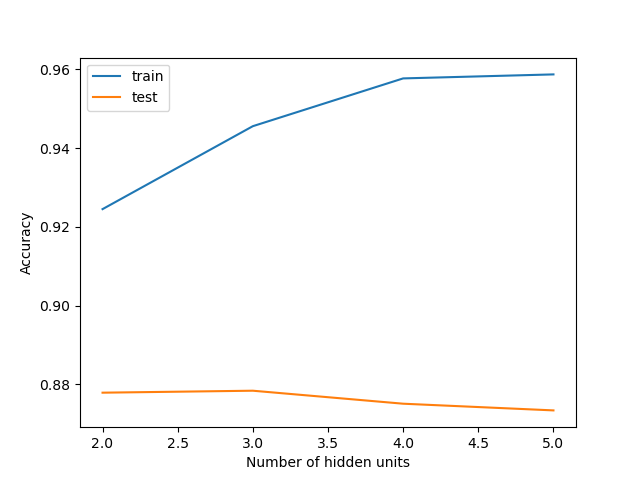
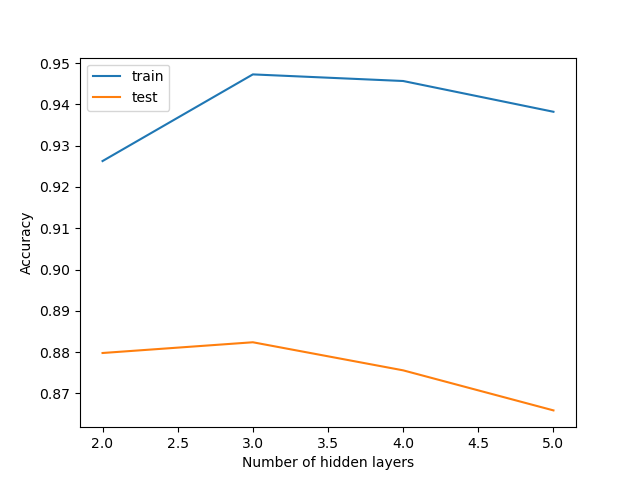
Q2

diff --git a/Assignment 3/MyNN.py b/Assignment 3/MyNN.py
@@ -23,9 +23,9 @@ def relu_derivative(z):
 
 class neuralnetwork:
 
-    def __init__(self, layers, activation, activation_derivative,
-                 learning_rate=0.1, stop_epsilon=1e-5, batch_size=100, max_epochs=1000, adaptive=False, objective_function = 'MSE', verbose=False):
-        self.layers = layers
+    def __init__(self, layers, activation, activation_derivative,learning_rate=0.1, stop_epsilon=1e-8, batch_size=100, max_epochs=1000, adaptive=False, objective_function = 'MSE'):
+        
+        self.hidden_layers = layers
         self.training_epochs = 0
         self.activation = activation
         self.activation_derivative = activation_derivative
@@ -36,20 +36,19 @@ class neuralnetwork:
         self.max_epochs = max_epochs
         self.adaptive = adaptive
         self.objective_function = objective_function
-        self.verbose = verbose
+        self.layers = []
         self.weights = []
         self.biases = []
         self.output = []
-        # self.init_weights_biases()
-    def init_weights_biases(self):
+        
+    def xavierinit_weights_biases(self):
         for i in range(1, len(self.layers)):
             self.weights.append(np.random.randn(
-                self.layers[i], self.layers[i - 1]) * (2 / self.layers[i - 1]) ** 0.5)
-            self.biases.append(np.random.randn(
-                self.layers[i], 1) * (2 / self.layers[i - 1]) ** 0.5)
+                self.layers[i], self.layers[i - 1]) / np.sqrt(self.layers[i - 1]))
+            self.biases.append(np.zeros((self.layers[i], 1)))
                 
     def forward_propagation(self, X):
-        self.output = [X]
+        self.output = [X] # input layer
         for i in range(len(self.weights)-1):
             net = np.dot(self.weights[i], self.output[i]) + self.biases[i]
             self.output.append(self.activation(net))
@@ -60,35 +59,35 @@ class neuralnetwork:
     def back_propagation(self, X, y):
         m = X.shape[1]
         self.forward_propagation(X)
-        delta = [None] * len(self.weights)
+        delta = []
         if self.objective_function == 'MSE':
-            delta[-1] = (self.output[-1] - y) * sigmoid_derivative(self.output[-1])
+            delta.insert(0,(self.output[-1] - y) * sigmoid_derivative(self.output[-1]))
         elif self.objective_function == 'BCE':
-            delta[-1] = (self.output[-1] - y)
+            delta.insert(0,self.output[-1] - y)
         
         for i in range(len(self.weights)-2, -1, -1):
-            delta[i] = np.dot(self.weights[i+1].T, delta[i+1]) * self.activation_derivative(self.output[i+1])
+            delta.insert(0,np.dot(self.weights[i+1].T, delta[0]) * self.activation_derivative(self.output[i+1]))
         for i in range(len(self.weights)):
-            self.weights[i] -= self.learning_rate * \
-                np.dot(delta[i], self.output[i].T) / m
-            self.biases[i] -= self.learning_rate * np.sum(
-                delta[i], axis=1, keepdims=True) / m
+            self.weights[i] -= self.learning_rate * np.dot(delta[i], self.output[i].T) / m
+            self.biases[i] -= self.learning_rate * np.sum(delta[i], axis=1, keepdims=True) / m
 
     def predict(self, X, one_hot=False):
+        y_pred = self.forward_propagation(X.T).T
         if one_hot:
-            return self.forward_propagation(X.T).T
+            return y_pred
         
-        return np.argmax(self.forward_propagation(X.T).T, axis=1)
+        return np.argmax(y_pred, axis=1)
     
     def score(self, X, y):
         return np.mean(self.predict(X) == y)
     
     def loss_function(self,X,y):
+        m = X.shape[0]
         if self.objective_function == 'MSE':
-            return np.sum(np.square(self.predict(X,one_hot=True) - y))/(2*X.shape[0])
+            return np.sum(np.square(self.predict(X,one_hot=True) - y))/(2*m)
         elif self.objective_function == 'BCE':
             y_pred = self.predict(X,one_hot=True)
-            return -np.sum(y*np.log(y_pred) + (1-y)*np.log(1-y_pred))/X.shape[0]
+            return -np.sum(y*np.log(y_pred) + (1-y)*np.log(1-y_pred))/m
     
     def confusion_matrix(self,X,y):
         y_pred = self.predict(X)
@@ -96,15 +95,15 @@ class neuralnetwork:
     
     def fit(self, X, y):
         y = one_hot_encoder(y.reshape(-1, 1))
-        self.layers = [X.shape[1]] + self.layers + [y.shape[1]]
-        self.init_weights_biases()
+        self.layers = [X.shape[1]] + self.hidden_layers + [y.shape[1]]
+        self.xavierinit_weights_biases()
         prev_epoch_loss = float('inf')
         m = X.shape[0]
         for epoch in range(self.max_epochs):
             self.training_epochs += 1
             curr_epoch_loss = 0
             if self.adaptive:
-                self.learning_rate = self.base_learning_rate / (1+epoch)**0.5
+                self.learning_rate = self.base_learning_rate / np.sqrt(1+epoch)
             for i in range(0, m, self.batch_size):
                 self.back_propagation(X[i:i+self.batch_size].T, y[i:i+self.batch_size].T)
                 curr_epoch_loss += self.loss_function(X[i:i+self.batch_size],y[i:i+self.batch_size])
@@ -113,9 +112,5 @@ class neuralnetwork:
             if self.stop_epsilon >  abs(prev_epoch_loss - curr_epoch_loss):
                 break
             prev_epoch_loss = curr_epoch_loss
-            if self.verbose:
-                if epoch % 100 == 0:
-                    print(f"Epoch {epoch}")
-                    print(f"Loss: {self.loss(X, y)}")
-                    print(f"Accuracy: {self.accuracy(X, y)}")
+            
             

diff --git a/Assignment 3/neural.py b/Assignment 3/neural.py
@@ -21,7 +21,7 @@ def main():
     test_loc = sys.argv[2]
     part = sys.argv[4]
     output_folder = sys.argv[3]
-    output_file_path = f'{output_folder}/neural_{part}.txt'
+    output_file_path = f'{output_folder}/{part}.txt'
     output_file = open(output_file_path,"w")
     x_train, y_train, x_test, y_test = dataloader(train_loc,test_loc)
     if part == 'b' :
@@ -130,14 +130,14 @@ def main():
         fig,ax = plt.subplots()
         ax.plot(num_hidden_layer,train_scores,label = 'train')
         ax.plot(num_hidden_layer,test_scores,label = 'test')
-        ax.set_xlabel('Number of hidden units')
+        ax.set_xlabel('Number of hidden layers')
         ax.set_ylabel('Accuracy')
         ax.legend()
         plt.savefig(f'{output_folder}/{part}_sigmoid_accuracy.png')
         plt.close()
         fig,ax = plt.subplots()
         ax.plot(num_hidden_layer,traintime)
-        ax.set_xlabel('Number of hidden units')
+        ax.set_xlabel('Number of hidden layers')
         ax.set_ylabel('Training time')
         plt.savefig(f'{output_folder}/{part}_sigmoid_training_time.png')
         plt.close()
@@ -165,14 +165,14 @@ def main():
         fig,ax = plt.subplots()
         ax.plot(num_hidden_layer,train_scores,label = 'train')
         ax.plot(num_hidden_layer,test_scores,label = 'test')
-        ax.set_xlabel('Number of hidden units')
+        ax.set_xlabel('Number of hidden layers')
         ax.set_ylabel('Accuracy')
         ax.legend()
         plt.savefig(f'{output_folder}/{part}_relu_accuracy.png')
         plt.close()
         fig,ax = plt.subplots()
         ax.plot(num_hidden_layer,traintime)
-        ax.set_xlabel('Number of hidden units')
+        ax.set_xlabel('Number of hidden layers')
         ax.set_ylabel('Training time')
         plt.savefig(f'{output_folder}/{part}_relu_training_time.png')
         plt.close()

diff --git a/Assignment 3/checker.py b/Assignment 3/checker.py
@@ -1,22 +1,26 @@
 import os
 import numpy as np
 import subprocess
-# os.chdir("./Q3")
-# os.chdir('./Qb')
-train = "data/COL774_mammography"
-val = "data/COL774_mammography"
-test = "data/COL774_mammography"
-outfile = "Output/Q1"
-for part in ['a', 'b', 'c', 'd', 'e', 'f']:
-    subprocess.run(['python',f'dt_mammography.py',train,val, test,outfile,f'{part}'])
+
+# # Q1.1
+# train = "data/COL774_mammography"
+# val = "data/COL774_mammography"
+# test = "data/COL774_mammography"
+# outfile = "Output/Q1"
+# for part in ['a', 'b', 'c', 'd', 'e', 'f']:
+#     subprocess.run(['python',f'dt_mammography.py',train,val, test,outfile,f'{part}'])
+
+# # Q1.2
 # train = "data/COL774_drug_review"
 # val = "data/COL774_drug_review"
 # test = "data/COL774_drug_review"
 # outfile = "Output/Q2"
-# for part in ['e']:
+# for part in ['g']:
 #     subprocess.run(['python',f'dt_drug_review.py',train,val, test,outfile,f'{part}'])
-# train = "data/COL774_fmnist"
-# test = "data/COL774_fmnist"
-# outfile = "Output/Q3"
-# for part in ['b','c','d','e','f','g']:
-#     subprocess.run(['python',f'neural.py',train,test,outfile,f'{part}'])
+
+# Q2
+train = "data/COL774_fmnist"
+test = "data/COL774_fmnist"
+outfile = "Output/Q3"
+for part in ['e']:#'b','c','d','e','f','g']:
+    subprocess.run(['python',f'neural.py',train,test,outfile,f'{part}'])
